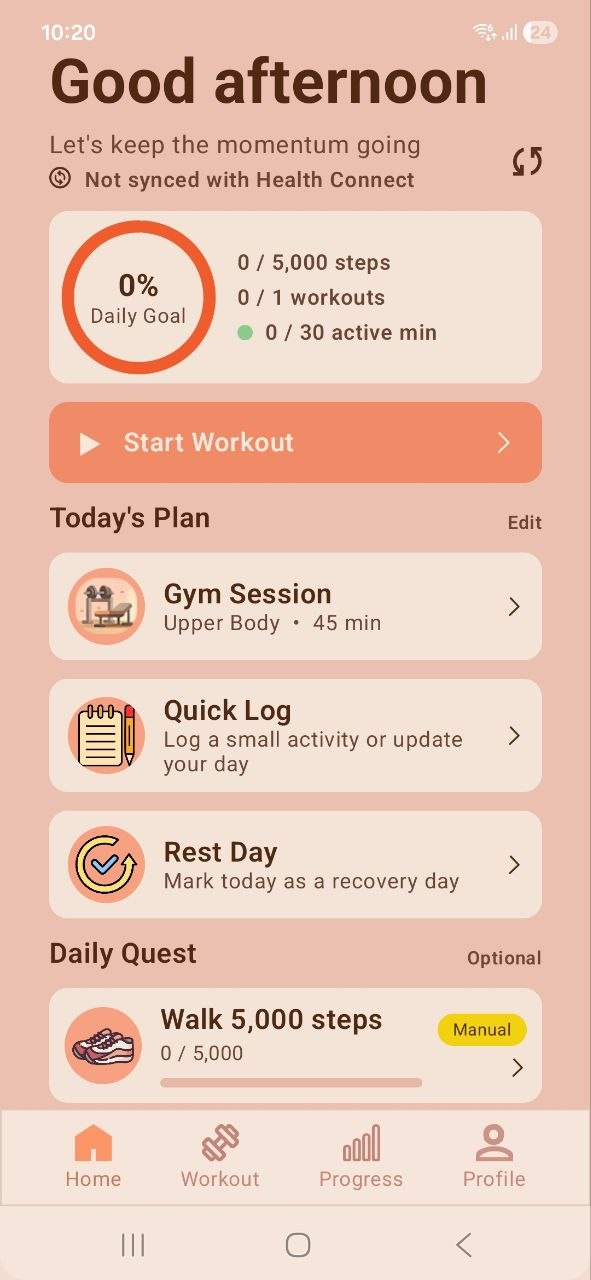
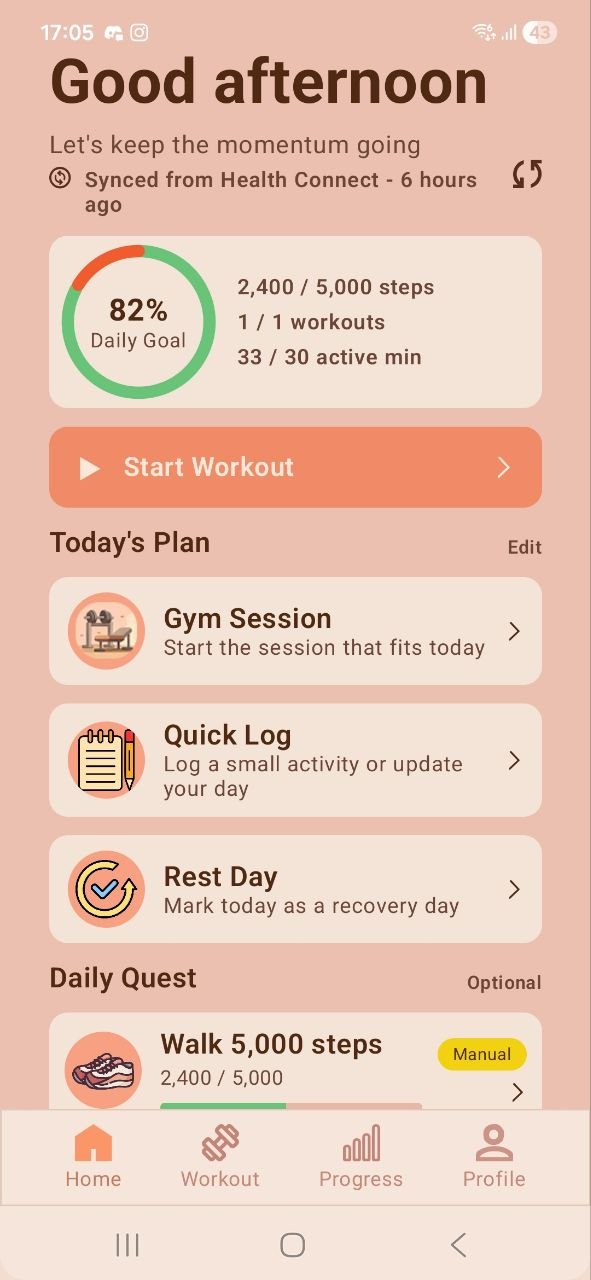
Update README

diff --git a/README.md b/README.md
@@ -4,42 +4,47 @@ SDT Fitness App is an Android workout tracker built with Kotlin and Jetpack Comp
 
 ## Screenshots
 
+Current prototype screens from the main app flow.
+
 <table>
   <tr>
     <td align="center"><strong>Home</strong></td>
-    <td align="center"><strong>Home dashboard</strong></td>
+    <td align="center"><strong>Routine</strong></td>
+    <td align="center"><strong>Empty workout</strong></td>
   </tr>
   <tr>
     <td><img src="docs/images/readme/home.jpg" width="220" alt="Home screen"></td>
-    <td><img src="docs/images/readme/home2.jpg" width="220" alt="Home dashboard screen"></td>
+    <td><img src="docs/images/readme/home-routine.jpg" width="220" alt="Home routine screen"></td>
+    <td><img src="docs/images/readme/empty-workout.jpg" width="220" alt="Empty workout screen"></td>
   </tr>
   <tr>
-    <td align="center"><strong>Ongoing workout</strong></td>
-    <td align="center"><strong>Workout logging</strong></td>
+    <td align="center"><strong>Add exercise</strong></td>
+    <td align="center"><strong>Filtered exercises</strong></td>
+    <td align="center"><strong>Log workout</strong></td>
   </tr>
   <tr>
-    <td><img src="docs/images/readme/OngoingWorkout.jpg" width="220" alt="Ongoing workout screen"></td>
-    <td><img src="docs/images/readme/OngoingWorkout2.jpg" width="220" alt="Workout set logging screen"></td>
-    <td><img src="docs/images/readme/AddExercise.jpg" width="220" alt="Add exercise screen"></td>
+    <td><img src="docs/images/readme/add-exercise.jpg" width="220" alt="Add exercise screen"></td>
+    <td><img src="docs/images/readme/add-exercise-filtered.jpg" width="220" alt="Filtered exercises screen"></td>
+    <td><img src="docs/images/readme/log-workout.jpg" width="220" alt="Log workout screen"></td>
   </tr>
   <tr>
-    <td align="center"><strong>Exercise selected</strong></td>
     <td align="center"><strong>Progress</strong></td>
-    <td align="center"><strong>Progress details</strong></td>
-  </tr>
-  <tr>
-    <td><img src="docs/images/readme/AddExerciseSelected.jpg" width="220" alt="Selected exercise screen"></td>
-    <td><img src="docs/images/readme/Progress.jpg" width="220" alt="Progress overview screen"></td>
-    <td><img src="docs/images/readme/Progress2.jpg" width="220" alt="Progress details screen"></td>
-  </tr>
-  <tr>
+    <td align="center"><strong>Health metrics</strong></td>
     <td align="center"><strong>Completed sessions</strong></td>
+  </tr>
+  <tr>
+    <td><img src="docs/images/readme/progress-overview.jpg" width="220" alt="Progress overview screen"></td>
+    <td><img src="docs/images/readme/progress-health.jpg" width="220" alt="Health metrics screen"></td>
+    <td><img src="docs/images/readme/completed-sessions.jpg" width="220" alt="Completed sessions screen"></td>
+  </tr>
+  <tr>
     <td align="center"><strong>Session review</strong></td>
+    <td></td>
     <td></td>
   </tr>
   <tr>
-    <td><img src="docs/images/readme/progress-sessionsCompleted.jpg" width="220" alt="Completed sessions screen"></td>
-    <td><img src="docs/images/readme/progress-sessionsCompleted-session.jpg" width="220" alt="Completed session review screen"></td>
+    <td><img src="docs/images/readme/session-review.jpg" width="220" alt="Completed session review screen"></td>
+    <td></td>
     <td></td>
   </tr>
 </table>
@@ -47,8 +52,8 @@ SDT Fitness App is an Android workout tracker built with Kotlin and Jetpack Comp
 ## Features
 
 - Home dashboard with daily goal progress, today's plan, daily step quest, routine calendar, quick log, and rest day logging.
-- Workout setup flow with exercise selection, adjustable weight and reps, session shortening, and custom exercise sets.
-- Ongoing workout tracking with set completion, exercise progress, exercise deletion, and add-exercise support during an active session.
+- Workout flow with an empty-state prompt, exercise search/filtering, custom exercise sets, and active set logging.
+- Active workout tracking with set completion, exercise progress, exercise deletion, and add-exercise support during a session.
 - Progress area with completed sessions, best lift, volume, session load, achievements, and completed-session review.
 - Optional Health Connect integration for reading steps and weight.
 - Local, account-scoped persistence using Room.